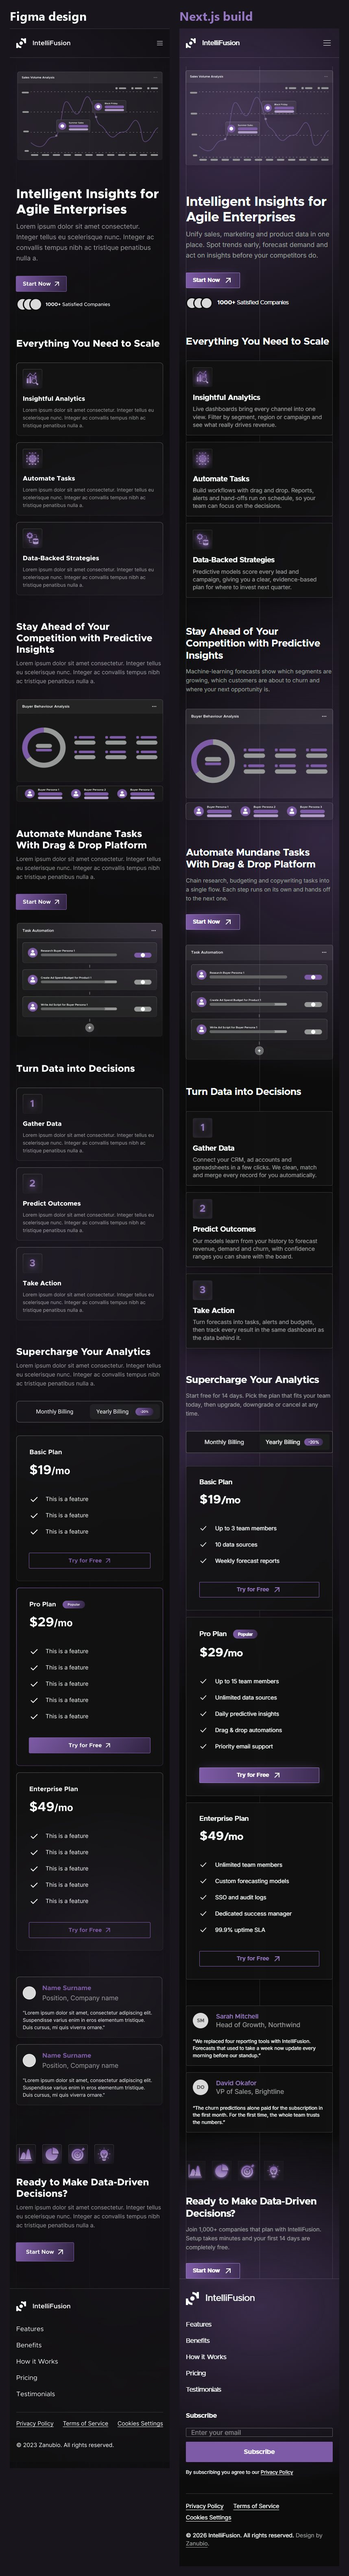
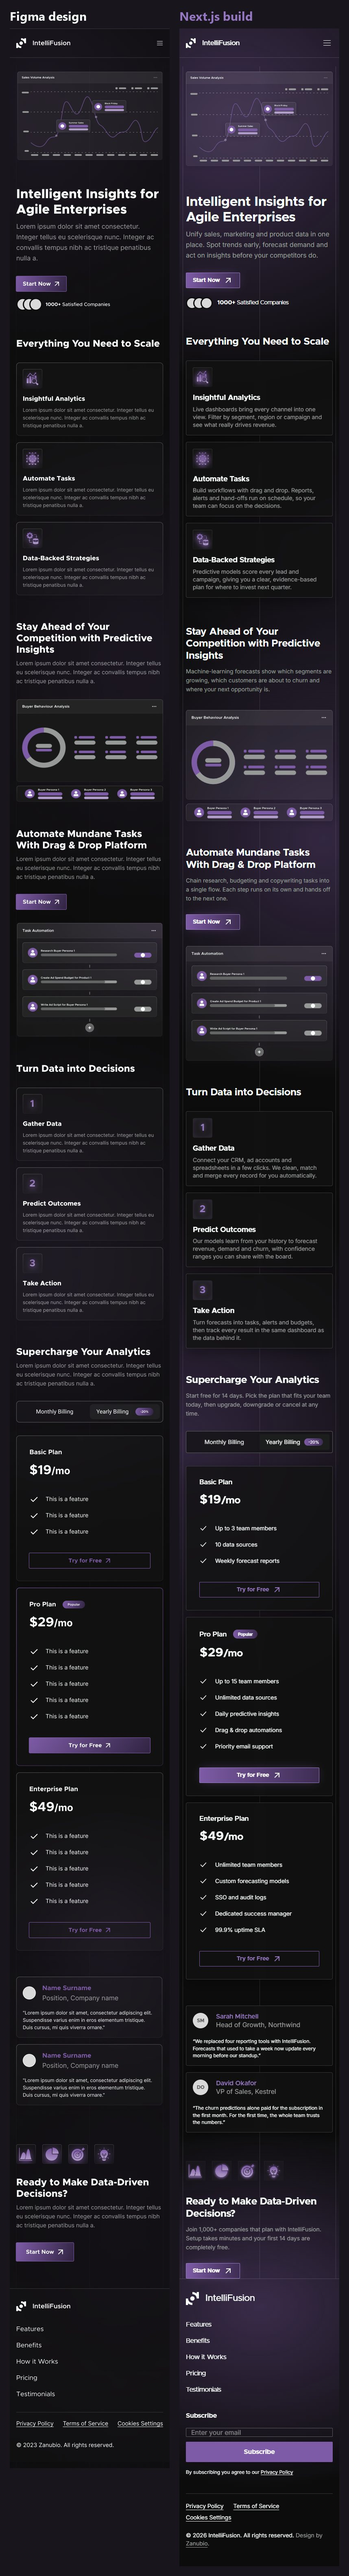
Recreate card background blur and move outer guide lines into the gutter

diff --git a/src/components/benefits.tsx b/src/components/benefits.tsx
@@ -1,4 +1,5 @@
 import Image from "next/image";
+import { CardArt } from "./card-art";
 import { Reveal } from "./motion";
 import { ButtonLink, cn, Container, SectionHeading } from "./ui";
 
@@ -12,6 +13,10 @@ export function Benefits() {
             alt: "Buyer behaviour analysis with a segment donut chart and three buyer personas",
             width: 584,
             height: 453,
+            panels: [
+              { x: 23, y: 19, width: 538, height: 328 },
+              { x: 23, y: 363, width: 538, height: 63 },
+            ],
           }}
           title="Stay Ahead of Your Competition with Predictive Insights"
           text="Machine-learning forecasts show which segments are growing, which customers are about to churn and where your next opportunity is."
@@ -23,6 +28,7 @@ export function Benefits() {
             alt: "Task automation flow chaining buyer research, ad budget and ad script steps",
             width: 584,
             height: 466,
+            panels: [{ x: 23, y: 19, width: 538, height: 420 }],
           }}
           title="Automate Mundane Tasks With Drag & Drop Platform"
           text="Chain research, budgeting and copywriting tasks into a single flow. Each step runs on its own and hands off to the next one."
@@ -34,7 +40,13 @@ export function Benefits() {
 }
 
 type RowProps = {
-  image: { src: string; alt: string; width: number; height: number };
+  image: {
+    src: string;
+    alt: string;
+    width: number;
+    height: number;
+    panels: Array<{ x: number; y: number; width: number; height: number }>;
+  };
   title: string;
   text: string;
   imageFirst?: boolean;
@@ -51,14 +63,10 @@ function Row({ image, title, text, imageFirst, cta }: RowProps) {
           : "lg:grid-cols-[minmax(0,710fr)_minmax(0,538fr)]",
       )}
     >
-      <Reveal className={cn("relative", imageFirst ? "order-2 lg:order-1" : "order-2")}>
-        <Image
-          src={image.src}
-          alt={image.alt}
-          width={image.width}
-          height={image.height}
-          className="-m-[4.3%] h-auto w-[108.6%] max-w-none"
-        />
+      <Reveal className={imageFirst ? "order-2 lg:order-1" : "order-2"}>
+        <CardArt canvas={{ width: image.width, height: image.height }} panels={image.panels}>
+          <Image src={image.src} alt={image.alt} width={image.width} height={image.height} />
+        </CardArt>
       </Reveal>
       <Reveal className={imageFirst ? "order-1 lg:order-2" : "order-1"}>
         <SectionHeading>{title}</SectionHeading>

diff --git a/src/components/card-art.tsx b/src/components/card-art.tsx
@@ -1,0 +1,53 @@
+import type { ReactNode } from "react";
+import { cn } from "./ui";
+
+type Rect = { x: number; y: number; width: number; height: number };
+
+type CardArtProps = {
+  /** Size of the exported artwork, including the drop-shadow padding Figma adds around it. */
+  canvas: { width: number; height: number };
+  /** The glass panels inside the artwork, in artwork pixels. The first one sets the column width. */
+  panels: Rect[];
+  className?: string;
+  children: ReactNode;
+};
+
+/**
+ * Places an exported Figma card so its visible frame lines up with the layout column,
+ * and recreates the card's "background blur" behind it. Figma exports that blur as an
+ * HTML backdrop-filter, which browsers ignore inside <img>, so without this the page's
+ * grid lines would show straight through the translucent card.
+ */
+export function CardArt({ canvas, panels, className, children }: CardArtProps) {
+  const card = panels[0];
+  const bottom = Math.max(...panels.map((panel) => panel.y + panel.height));
+  const pct = (value: number, of: number) => `${(value / of) * 100}%`;
+
+  return (
+    <div
+      className={cn("relative max-w-none", className)}
+      style={{
+        // Margin percentages resolve against the column width, which equals the card width.
+        width: pct(canvas.width, card.width),
+        marginLeft: `-${pct(card.x, card.width)}`,
+        marginTop: `-${pct(card.y, card.width)}`,
+        marginBottom: `-${pct(canvas.height - bottom, card.width)}`,
+      }}
+    >
+      {panels.map((panel, index) => (
+        <span
+          key={index}
+          aria-hidden="true"
+          className="absolute rounded-lg backdrop-blur-[15px]"
+          style={{
+            left: pct(panel.x, canvas.width),
+            top: pct(panel.y, canvas.height),
+            width: pct(panel.width, canvas.width),
+            height: pct(panel.height, canvas.height),
+          }}
+        />
+      ))}
+      <div className="relative [&>img]:block [&>img]:h-auto [&>img]:w-full">{children}</div>
+    </div>
+  );
+}

diff --git a/src/components/hero.tsx b/src/components/hero.tsx
@@ -1,4 +1,5 @@
 import { preload } from "react-dom";
+import { CardArt } from "./card-art";
 import { ButtonLink, Container } from "./ui";
 
 // The hero chart is the LCP element on phones. Its SVG uses blur filters that are slow
@@ -20,18 +21,21 @@ export function Hero() {
   return (
     <section aria-labelledby="hero-title" className="relative">
       <Container className="grid items-center gap-[70px] pt-[34px] lg:grid-cols-[559fr_673fr] lg:gap-12 lg:pt-[100px] xl:gap-20">
-        <div className="relative lg:order-2">
-          {/* The exported card carries its own drop shadow, so it bleeds 24px past the visible frame. */}
-          {/* eslint-disable-next-line @next/next/no-img-element -- static export, responsive srcset is hand-made */}
-          <img
-            {...heroCard}
-            alt="Sales volume analysis chart showing seasonal peaks for summer sales and Black Friday"
-            width={720}
-            height={479}
-            fetchPriority="high"
-            decoding="async"
-            className="-m-[3.5%] h-auto w-[107%] max-w-none"
-          />
+        <div className="lg:order-2">
+          <CardArt
+            canvas={{ width: 720, height: 479 }}
+            panels={[{ x: 23, y: 19, width: 674, height: 433 }]}
+          >
+            {/* eslint-disable-next-line @next/next/no-img-element -- static export, responsive srcset is hand-made */}
+            <img
+              {...heroCard}
+              alt="Sales volume analysis chart showing seasonal peaks for summer sales and Black Friday"
+              width={720}
+              height={479}
+              fetchPriority="high"
+              decoding="async"
+            />
+          </CardArt>
         </div>
 
         <div className="lg:order-1">

diff --git a/src/components/ui.tsx b/src/components/ui.tsx
@@ -102,8 +102,13 @@ export function Glow({ className, strength = 0.32 }: { className?: string; stren
   );
 }
 
-/** The thin vertical guide lines that run behind the whole page in the design. */
+/**
+ * The thin vertical guide lines that run behind the whole page in the design.
+ * The inner lines split the content into quarters; the outer two sit in the page gutter
+ * instead of on the content edge, so they frame the text and cards rather than touching them.
+ */
 export function GridLines() {
+  const line = "absolute inset-y-0 w-px bg-white/[0.14]";
   return (
     <div
       aria-hidden="true"
@@ -111,16 +116,11 @@ export function GridLines() {
     >
       <Container className="h-full">
         <div className="relative h-full">
-          {["0%", "25%", "50%", "75%", "100%"].map((left, index) => (
-            <span
-              key={left}
-              className={cn(
-                "absolute inset-y-0 w-px bg-white/[0.14]",
-                index % 2 === 1 && "hidden lg:block",
-              )}
-              style={{ left: index === 4 ? "calc(100% - 1px)" : left }}
-            />
-          ))}
+          <span className={cn(line, "-left-2 sm:-left-4 lg:-left-8")} />
+          <span className={cn(line, "left-1/4 hidden lg:block")} />
+          <span className={cn(line, "left-1/2")} />
+          <span className={cn(line, "left-3/4 hidden lg:block")} />
+          <span className={cn(line, "-right-2 sm:-right-4 lg:-right-8")} />
         </div>
       </Container>
     </div>

diff --git a/src/components/cta.tsx b/src/components/cta.tsx
@@ -30,7 +30,10 @@ export function Cta() {
             <Reveal
               key={icon.src}
               delay={0.1 * index}
-              className={cn("w-12 lg:absolute lg:w-[13.34%] lg:max-w-48", icon.position)}
+              className={cn(
+                "w-12 rounded-[4px] backdrop-blur-[15px] lg:absolute lg:w-[13.34%] lg:max-w-48",
+                icon.position,
+              )}
             >
               <Image src={icon.src} alt="" width={192} height={192} className="h-auto w-full" />
             </Reveal>
